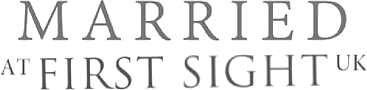
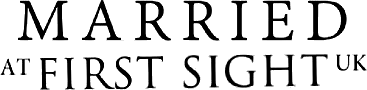
The Married at First Sight mask was never opaque
Making it larger and whiter did not help, which was the clue: its alpha
channel peaks at 220 and averages 23, where Channel 4's and SWNS's both
reach 255. A mask is painted through its alpha, so whatever colour it
was given came out at about two thirds strength. It was grey because
the file is grey, not because the page was drawing it badly.

The alpha is lifted to full, which also thickens the hairline serifs
where they were fading out at the edges. It is the same file everywhere,
so the press pages get a masthead that matches its neighbours instead of
one that sat a shade lighter than all of them.

With the mask carrying itself, the marks on a still keep one white halo
rather than three, and take 2.4 rather than 1.9. The marks and the words
on a still are white now rather than the site's cream, and the scrim
under them is deeper.

The file is stamped ?v=20260929b, or anyone who has been to the site
before would go on seeing the faint one.

diff --git a/public/influencers.html b/public/influencers.html
@@ -499,7 +499,7 @@
                           <img src="images/press-video/fPdU-01UL1Q-640.webp" srcset="images/press-video/fPdU-01UL1Q-320.webp 320w, images/press-video/fPdU-01UL1Q-640.webp 640w" sizes="(max-width: 767px) 92vw, 22rem"
                                loading="lazy" decoding="async" alt="">
                           <span class="ch-vid__icon" aria-hidden="true"><svg viewBox="0 0 68 48" width="100%" height="100%"><path class="ch-vid__icon-bg" d="M66.5 7.7c-.8-2.9-2.5-5.4-5.4-6.2C55.8 0 34 0 34 0S12.2 0 6.9 1.4C4 2.2 2.3 4.8 1.5 7.7 0 13 0 24 0 24s0 11 1.5 16.3c.8 2.9 2.5 5.4 5.4 6.2C12.2 48 34 48 34 48s21.8 0 27.1-1.5c2.9-.8 4.6-3.3 5.4-6.2C68 35 68 24 68 24s0-11-1.5-16.3z"></path><path d="M45 24 27 14v20" fill="#fff"></path></svg></span>
-                          <span class="ch-vid__over" aria-hidden="true"><span class="ch-vid__logos"><span class="ch-vid__logo" role="img" aria-label="Channel 4" style="--ch-logo-scale:1.35;--ch-logo-ar:35/46;-webkit-mask-image:url('images/press/channel4.png');mask-image:url('images/press/channel4.png')"></span><span class="ch-vid__logo" role="img" aria-label="Married at First Sight UK" style="--ch-logo-scale:1.9;--ch-logo-ar:367/90;-webkit-mask-image:url('images/press/mafs.png');mask-image:url('images/press/mafs.png')"></span></span><span class="ch-vid__detail">Series 8 Episode 31</span></span>
+                          <span class="ch-vid__over" aria-hidden="true"><span class="ch-vid__logos"><span class="ch-vid__logo" role="img" aria-label="Channel 4" style="--ch-logo-scale:1.35;--ch-logo-ar:35/46;-webkit-mask-image:url('images/press/channel4.png');mask-image:url('images/press/channel4.png')"></span><span class="ch-vid__logo" role="img" aria-label="Married at First Sight UK" style="--ch-logo-scale:2.4;--ch-logo-ar:367/90;-webkit-mask-image:url('images/press/mafs.png?v=20260929b');mask-image:url('images/press/mafs.png?v=20260929b')"></span></span><span class="ch-vid__detail">Series 8 Episode 31</span></span>
                         </button>
                       </article>
                     </li>

diff --git a/public/oxford-press.html b/public/oxford-press.html
@@ -445,7 +445,7 @@
                           <span class="ch-vid__icon" aria-hidden="true"><svg viewBox="0 0 68 48" width="100%" height="100%"><path class="ch-vid__icon-bg" d="M66.5 7.7c-.8-2.9-2.5-5.4-5.4-6.2C55.8 0 34 0 34 0S12.2 0 6.9 1.4C4 2.2 2.3 4.8 1.5 7.7 0 13 0 24 0 24s0 11 1.5 16.3c.8 2.9 2.5 5.4 5.4 6.2C12.2 48 34 48 34 48s21.8 0 27.1-1.5c2.9-.8 4.6-3.3 5.4-6.2C68 35 68 24 68 24s0-11-1.5-16.3z"></path><path d="M45 24 27 14v20" fill="#fff"></path></svg></span>
                         </button>
                         <p class="ch-vid__meta"><span class="ch-vid__title">Cedar Hollow on Married at First Sight UK</span>
-                          <span class="ch-vid__logos"><span class="ch-vid__logo" role="img" aria-label="Channel 4" style="--ch-logo-ar:35/46;-webkit-mask-image:url('images/press/channel4.png');mask-image:url('images/press/channel4.png')"></span><span class="ch-vid__logo" role="img" aria-label="Married at First Sight UK" style="--ch-logo-ar:367/90;-webkit-mask-image:url('images/press/mafs.png');mask-image:url('images/press/mafs.png')"></span></span><span class="ch-vid__detail">Series 8 Episode 31</span><span class="ch-vid__year">2023</span></p>
+                          <span class="ch-vid__logos"><span class="ch-vid__logo" role="img" aria-label="Channel 4" style="--ch-logo-ar:35/46;-webkit-mask-image:url('images/press/channel4.png');mask-image:url('images/press/channel4.png')"></span><span class="ch-vid__logo" role="img" aria-label="Married at First Sight UK" style="--ch-logo-ar:367/90;-webkit-mask-image:url('images/press/mafs.png?v=20260929b');mask-image:url('images/press/mafs.png?v=20260929b')"></span></span><span class="ch-vid__detail">Series 8 Episode 31</span><span class="ch-vid__year">2023</span></p>
                         <a class="ch-vid__link" href="https://www.youtube.com/watch?v=fPdU-01UL1Q" target="_blank" rel="noopener">Watch on YouTube</a>
                       </article>
                     </li>

diff --git a/public/press.html b/public/press.html
@@ -542,7 +542,7 @@
                           <span class="ch-vid__icon" aria-hidden="true"><svg viewBox="0 0 68 48" width="100%" height="100%"><path class="ch-vid__icon-bg" d="M66.5 7.7c-.8-2.9-2.5-5.4-5.4-6.2C55.8 0 34 0 34 0S12.2 0 6.9 1.4C4 2.2 2.3 4.8 1.5 7.7 0 13 0 24 0 24s0 11 1.5 16.3c.8 2.9 2.5 5.4 5.4 6.2C12.2 48 34 48 34 48s21.8 0 27.1-1.5c2.9-.8 4.6-3.3 5.4-6.2C68 35 68 24 68 24s0-11-1.5-16.3z"></path><path d="M45 24 27 14v20" fill="#fff"></path></svg></span>
                         </button>
                         <p class="ch-vid__meta"><span class="ch-vid__title">Cedar Hollow on Married at First Sight UK</span>
-                          <span class="ch-vid__logos"><span class="ch-vid__logo" role="img" aria-label="Channel 4" style="--ch-logo-ar:35/46;-webkit-mask-image:url('images/press/channel4.png');mask-image:url('images/press/channel4.png')"></span><span class="ch-vid__logo" role="img" aria-label="Married at First Sight UK" style="--ch-logo-ar:367/90;-webkit-mask-image:url('images/press/mafs.png');mask-image:url('images/press/mafs.png')"></span></span><span class="ch-vid__detail">Series 8 Episode 31</span><span class="ch-vid__year">2023</span></p>
+                          <span class="ch-vid__logos"><span class="ch-vid__logo" role="img" aria-label="Channel 4" style="--ch-logo-ar:35/46;-webkit-mask-image:url('images/press/channel4.png');mask-image:url('images/press/channel4.png')"></span><span class="ch-vid__logo" role="img" aria-label="Married at First Sight UK" style="--ch-logo-ar:367/90;-webkit-mask-image:url('images/press/mafs.png?v=20260929b');mask-image:url('images/press/mafs.png?v=20260929b')"></span></span><span class="ch-vid__detail">Series 8 Episode 31</span><span class="ch-vid__year">2023</span></p>
                         <a class="ch-vid__link" href="https://www.youtube.com/watch?v=fPdU-01UL1Q" target="_blank" rel="noopener">Watch on YouTube</a>
                       </article>
                     </li>

diff --git a/public/css/press.css b/public/css/press.css
@@ -681,11 +681,11 @@ a.ch-vid__play {
   align-items: flex-end;
   gap: .3rem;
   padding: 3.5rem .95rem .9rem;
-  color: #f4f2e4;
-  background: linear-gradient(180deg, rgba(16, 19, 7, 0), rgba(16, 19, 7, .55) 45%, rgba(16, 19, 7, .88));
+  color: #fff;
+  background: linear-gradient(180deg, rgba(16, 19, 7, 0), rgba(16, 19, 7, .62) 40%, rgba(16, 19, 7, .95));
   pointer-events: none;
   text-align: right;
-  text-shadow: 0 1px 3px rgba(10, 12, 4, .7);
+  text-shadow: 0 2px 5px rgba(8, 10, 3, .9), 0 0 2px rgba(8, 10, 3, .55);
 }
 
 /* The name on the still, for the films whose own artwork does not carry it.
@@ -718,7 +718,14 @@ a.ch-vid__play {
 .ch-vid__over .ch-vid__logo {
   height: calc(1.5rem * var(--ch-logo-scale, 1));
   max-width: calc(7rem * var(--ch-logo-scale, 1));
-  filter: drop-shadow(0 1px 3px rgba(10, 12, 4, .65));
+  background-color: #fff;
+  /* A white halo at no offset before the dark one. A mask can be painted but
+     not emboldened, and these are light serifs; the halo bleeds the
+     silhouette outwards by a pixel, which thickens the strokes the way a
+     heavier weight of the same face would. The dark shadow then applies to
+     the thickened shape and lifts it off the photograph. */
+  filter: drop-shadow(0 0 1px #fff) drop-shadow(0 0 1px #fff)
+          drop-shadow(0 2px 5px rgba(8, 10, 3, .92));
 }
 
 .ch-vid__over .ch-vid__detail {
